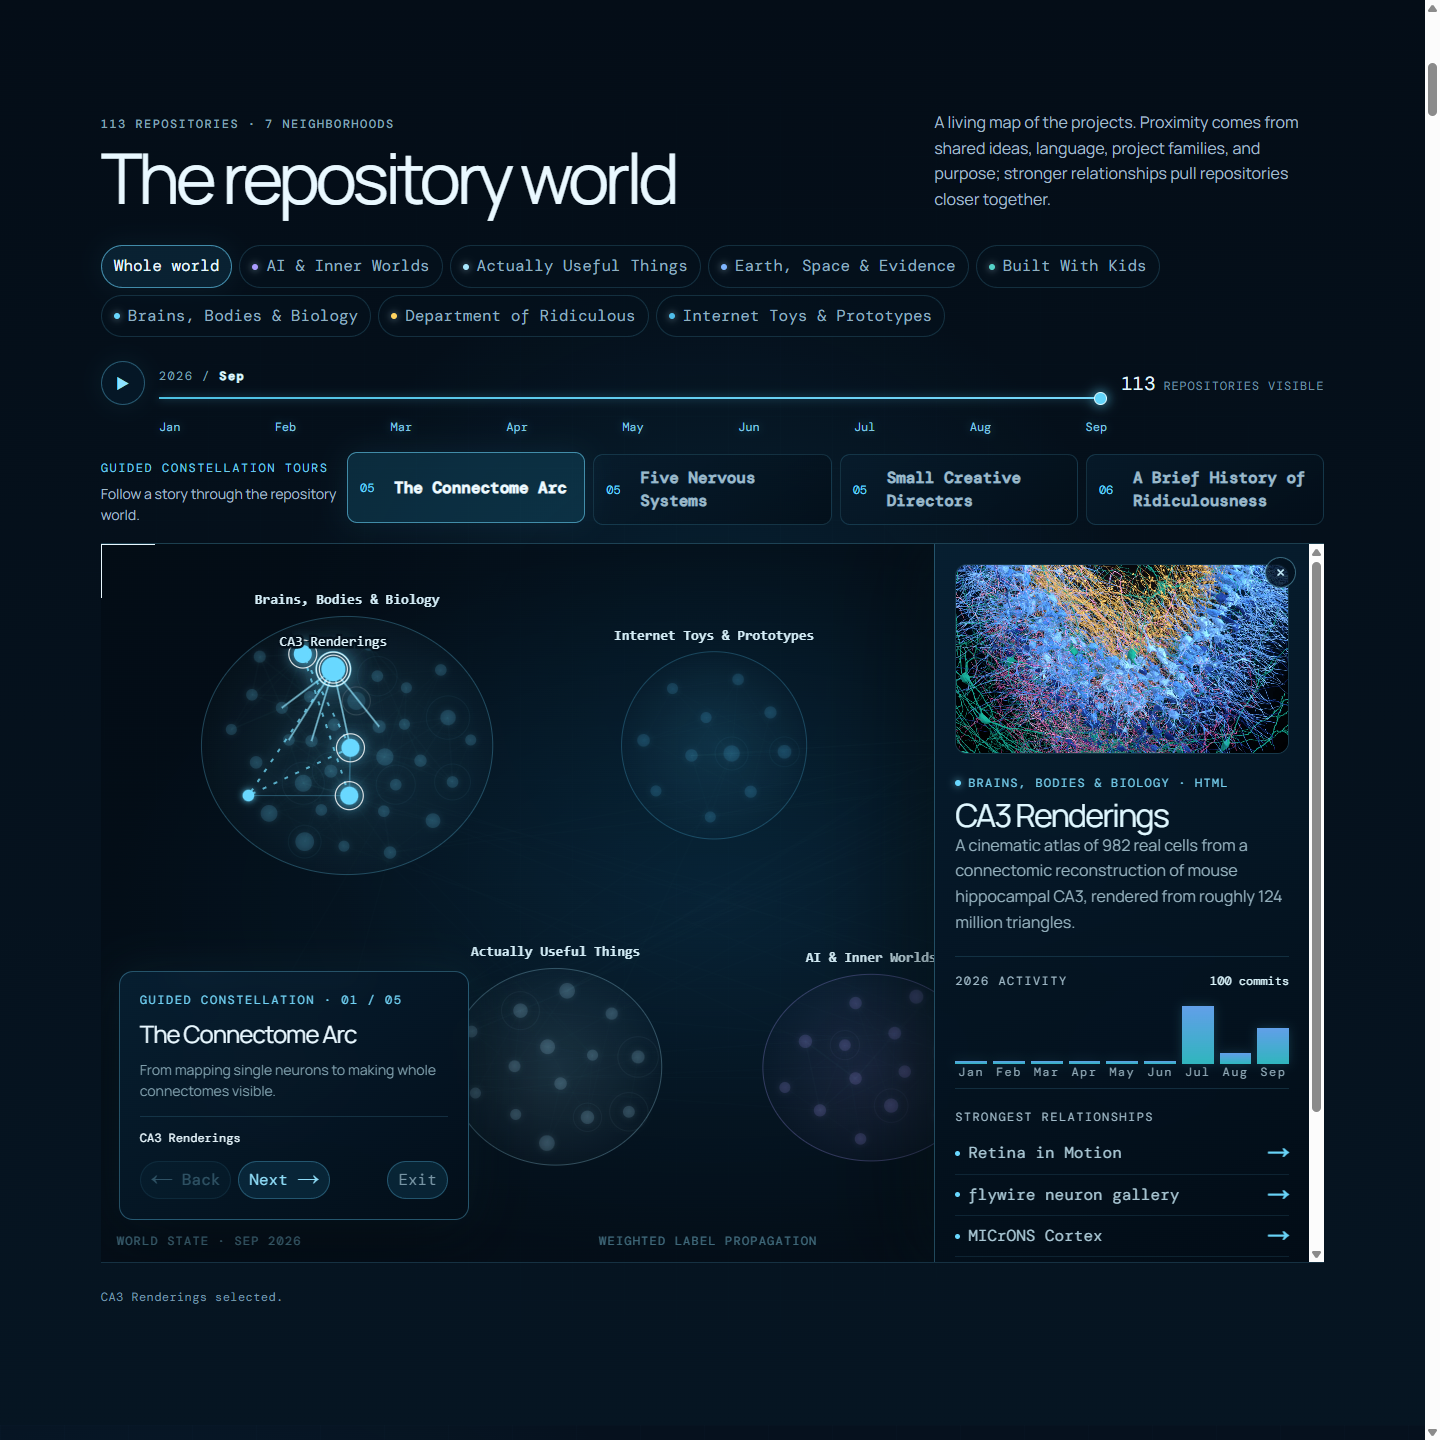
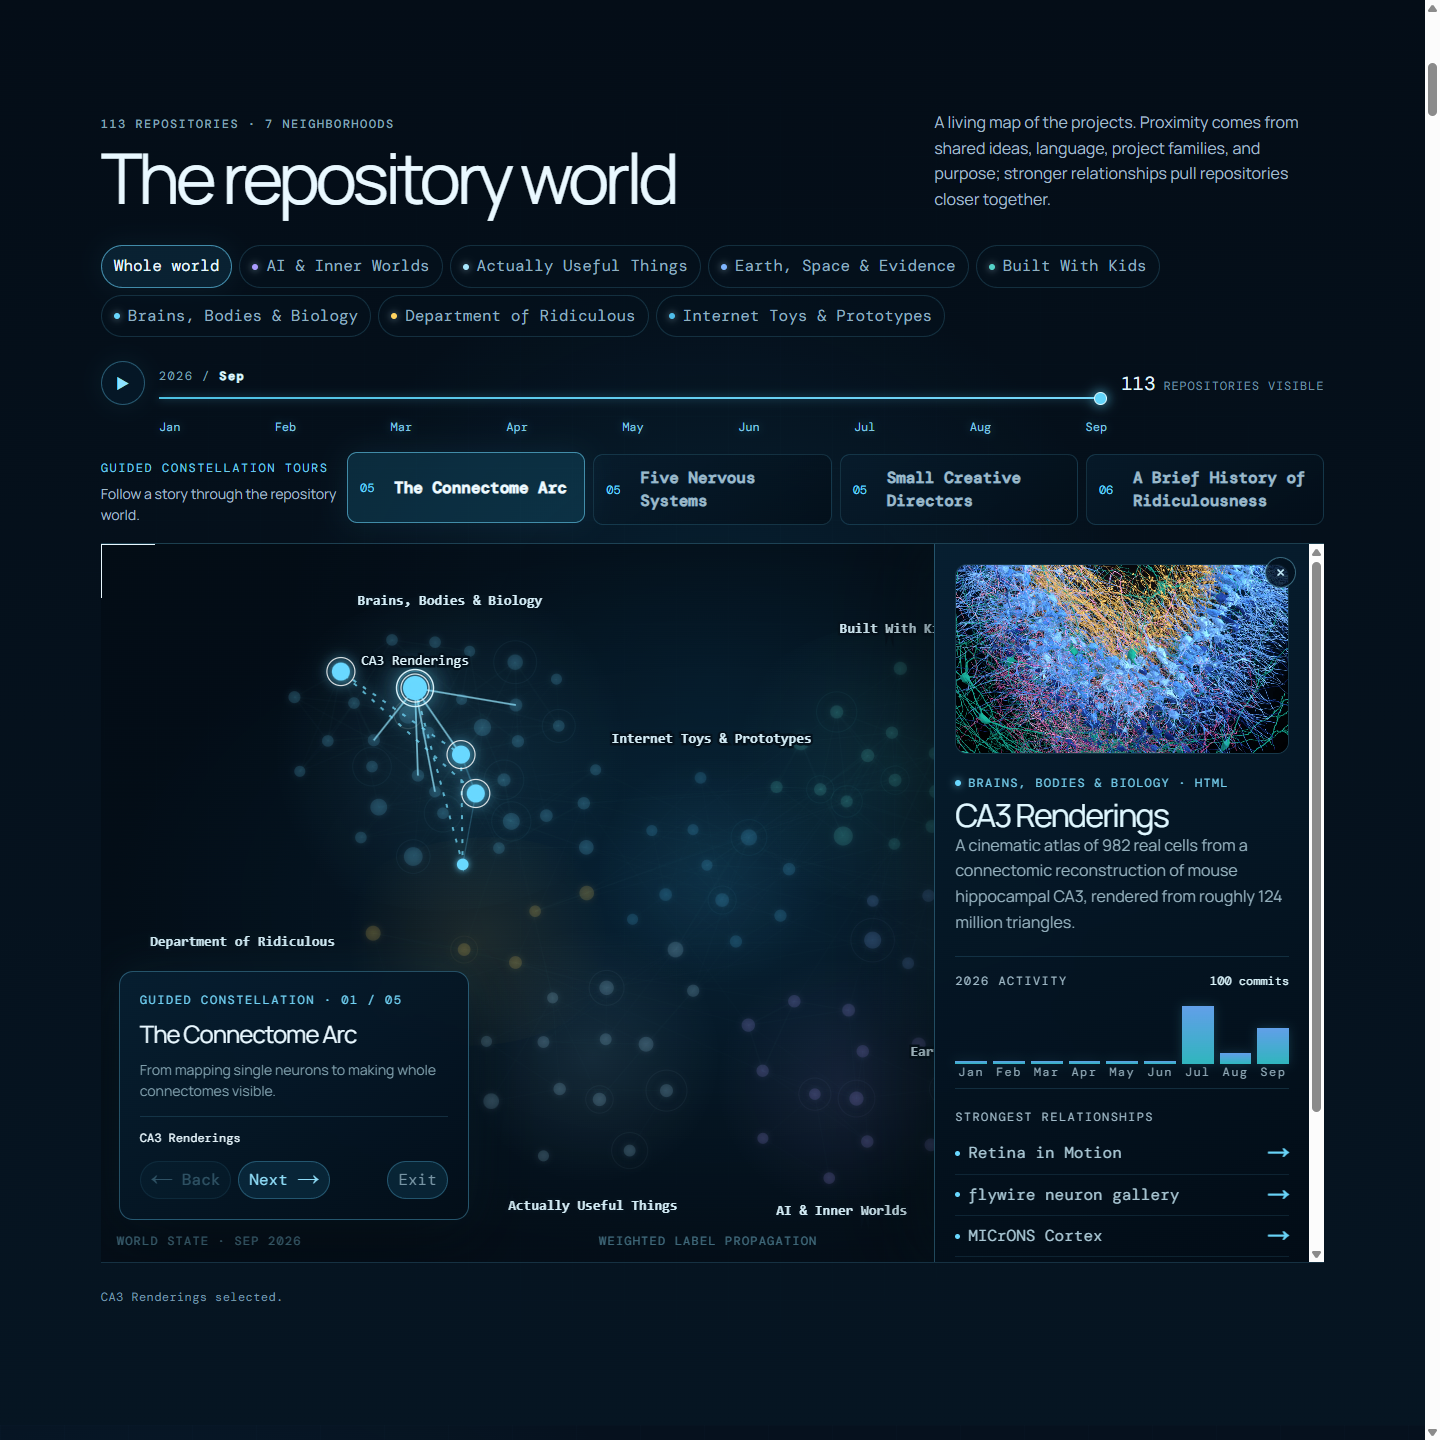
Keep tighter communities woven into one connected ecosystem

diff --git a/app/repository-world.tsx b/app/repository-world.tsx
@@ -19,10 +19,10 @@ const neighborhoodColors:Record<string,string> = {
   developer:"#8ddcff", multimodal:"#729eff", learning:"#b7c9ff",
 };
 const centers:Record<string,[number,number]> = {
-  brains:[.2,.28], kids:[.8,.28], earth:[.87,.73], ai:[.63,.73],
-  tools:[.37,.73], toys:[.5,.28], ridiculous:[.13,.73],
-  models:[.2,.28], agents:[.5,.28], research:[.8,.28], safety:[.87,.73],
-  developer:[.63,.73], multimodal:[.13,.73], learning:[.37,.73],
+  brains:[.25,.28], kids:[.74,.25], earth:[.82,.55], ai:[.63,.76],
+  tools:[.36,.75], toys:[.48,.48], ridiculous:[.12,.59],
+  models:[.22,.26], agents:[.52,.22], research:[.78,.3], safety:[.82,.64],
+  developer:[.53,.76], multimodal:[.22,.68], learning:[.48,.49],
 };
 const monthNames=["Jan","Feb","Mar","Apr","May","Jun","Jul","Aug","Sep","Oct","Nov","Dec"];
 const constellationTours = [
@@ -168,39 +168,30 @@ export default function RepositoryWorld({projects,heading="The repository world"
     const inTour=(node:GraphNode)=>!tourNames.length||tourNames.includes(node.name);
     const cumulative=(node:GraphNode)=>node.months.slice(0,month).reduce((sum,value)=>sum+value,0);
     const nodeRadius=(node:GraphNode)=>node.featured?9:5.5+Math.min(4,node.stars===undefined?Math.sqrt(cumulative(node))*.28:Math.log10(node.stars+1)*1.1);
-    const neighborhoodOrder=Object.keys(centers).filter(id=>categories.some(category=>category.id===id));
-    const largestNeighborhood=[...neighborhoodOrder].sort((a,b)=>nodes.filter(node=>node.category===b).length-nodes.filter(node=>node.category===a).length)[0];
-    const mobileOrder=[largestNeighborhood,...neighborhoodOrder.filter(id=>id!==largestNeighborhood)];
-    const mobileExtents=new Map<string,number>();
-    const mobileAnchor=(category:string)=>{
-      const index=mobileOrder.indexOf(category);
-      const row=index===0?0:Math.floor((index-1)/2)+1;
-      const rows=1+Math.ceil((mobileOrder.length-1)/2);
-      return {x:width*(index===0?.5:index%2===1?.25:.75),y:60+(row+.5)*(height-100)/rows};
-    };
-    const mobileScale=(category:string)=>Math.min(.85,(width/(category===largestNeighborhood?2:4)-30)/(mobileExtents.get(category)||100));
-    const projectPoint=(node:GraphNode)=>{
-      if(width>=700)return {x:node.x/1000*width,y:node.y/650*height};
-      const [cx,cy]=centers[node.category]||[.5,.5],anchor=mobileAnchor(node.category),scale=mobileScale(node.category);
-      return {x:anchor.x+(node.x-cx*1000)*scale,y:anchor.y+(node.y-cy*650)*scale};
-    };
+    const projectPoint=(node:GraphNode)=>({x:node.x/1000*width,y:node.y/650*height});
     const tick=()=>{
+        const localCenters=new Map<string,{x:number;y:number;count:number}>();
+        nodes.forEach(node=>{if(!visible(node))return;const group=localCenters.get(node.category)||{x:0,y:0,count:0};group.x+=node.x;group.y+=node.y;group.count++;localCenters.set(node.category,group);});
         nodes.forEach((node,index)=>{
           if(index===drag) return;
           const [cx,cy]=centers[node.category]||[.5,.5];
-          node.vx+=(cx*1000-node.x)*.004; node.vy+=(cy*650-node.y)*.004;
+          node.vx+=(cx*1000-node.x)*.0008; node.vy+=(cy*650-node.y)*.0008;
+          const group=localCenters.get(node.category);
+          if(group){node.vx+=(group.x/group.count-node.x)*.0012;node.vy+=(group.y/group.count-node.y)*.0012;}
           if(easterEgg){node.vx+=Math.sin(performance.now()*.006+index)*.12;node.vy+=Math.cos(performance.now()*.007+index*1.7)*.12;}
         });
         for(let a=0;a<nodes.length;a++) for(let b=a+1;b<nodes.length;b++) {
           if(!visible(nodes[a])||!visible(nodes[b])) continue;
           const dx=nodes[b].x-nodes[a].x,dy=nodes[b].y-nodes[a].y,distance=Math.max(18,Math.hypot(dx,dy));
-          if(distance<76){const force=(76-distance)*.004;nodes[a].vx-=dx/distance*force;nodes[a].vy-=dy/distance*force;nodes[b].vx+=dx/distance*force;nodes[b].vy+=dy/distance*force;}
+          if(distance<90){const force=(90-distance)*.0025;nodes[a].vx-=dx/distance*force;nodes[a].vy-=dy/distance*force;nodes[b].vx+=dx/distance*force;nodes[b].vy+=dy/distance*force;}
         }
         graph.edges.forEach(edge=>{
           const a=nodes[edge.source],b=nodes[edge.target]; if(!visible(a)||!visible(b)) return;
-          const dx=b.x-a.x,dy=b.y-a.y,distance=Math.max(1,Math.hypot(dx,dy)); const desired=44+Math.max(0,28-edge.weight*4);
-          // Bridges remain visible without dragging separate neighborhoods together.
-          const strength=a.category===b.category?.0006:.000015;
+          const dx=b.x-a.x,dy=b.y-a.y,distance=Math.max(1,Math.hypot(dx,dy));
+          const local=a.category===b.category;
+          const desired=(local?48:68)+Math.max(0,32-edge.weight*5);
+          // Tighten local relationships while retaining the pull across the ecosystem.
+          const strength=local?.00055:.00038;
           const force=(distance-desired)*strength*Math.min(edge.weight,5); a.vx+=dx/distance*force;a.vy+=dy/distance*force;b.vx-=dx/distance*force;b.vy-=dy/distance*force;
         });
         nodes.forEach((node,index)=>{if(index!==drag){node.vx*=.9;node.vy*=.9;node.x=Math.max(35,Math.min(965,node.x+node.vx));node.y=Math.max(35,Math.min(615,node.y+node.vy));}});
@@ -208,31 +199,30 @@ export default function RepositoryWorld({projects,heading="The repository world"
     const draw=()=>{
       context.clearRect(0,0,width,height);
       const labels:{left:number;right:number;top:number;bottom:number}[]=[];
+      const neighborhoodLabels:{lines:string[];cx:number;cy:number;rx:number;ry:number;labelWidth:number}[]=[];
       categories.forEach(category=>{
         if(active!=="all"&&active!==category.id) return;
         const group=nodes.filter(node=>node.category===category.id&&visible(node)); if(!group.length)return;
         const points=group.map(projectPoint); const cx=points.reduce((sum,p)=>sum+p.x,0)/points.length,cy=points.reduce((sum,p)=>sum+p.y,0)/points.length;
         const rx=Math.max(42,...points.map(p=>Math.abs(p.x-cx)+22)),ry=Math.max(38,...points.map(p=>Math.abs(p.y-cy)+22));
         const color=neighborhoodColors[category.id]||"#69d8ff";
-        const gradient=context.createRadialGradient(cx,cy,0,cx,cy,Math.max(rx,ry)); gradient.addColorStop(0,`${color}20`);gradient.addColorStop(1,`${color}05`);
-        context.fillStyle=gradient;context.strokeStyle=`${color}45`;context.lineWidth=1;context.beginPath();context.ellipse(cx,cy,rx,ry,0,0,Math.PI*2);context.fill();context.stroke();
+        const gradient=context.createRadialGradient(cx,cy,0,cx,cy,Math.max(rx,ry)); gradient.addColorStop(0,`${color}18`);gradient.addColorStop(1,`${color}00`);
+        context.fillStyle=gradient;context.beginPath();context.ellipse(cx,cy,rx+24,ry+24,-.08,0,Math.PI*2);context.fill();
+        if(width<700&&active==="all")return;
         context.fillStyle="#d4edf7";context.font="600 14px ui-monospace, monospace";context.letterSpacing="0px";context.textAlign="center";
-        const maxLabelWidth=width<700?width/(category.id===largestNeighborhood?1:2)-22:Math.min(260,width*.23);
+        const maxLabelWidth=Math.min(240,width*.3);
         const lines:string[]=[];
         category.title.split(" ").forEach(word=>{
           const last=lines.length-1;
           if(last>=0&&context.measureText(`${lines[last]} ${word}`).width<=maxLabelWidth)lines[last]+=` ${word}`;
           else lines.push(word);
         });
-        const labelX=Math.max(maxLabelWidth/2+8,Math.min(width-maxLabelWidth/2-8,cx));
-        const labelY=Math.max(22,cy-ry-12-(lines.length-1)*19);
-        lines.forEach((line,index)=>context.fillText(line,labelX,labelY+index*19));
-        labels.push({left:labelX-maxLabelWidth/2,right:labelX+maxLabelWidth/2,top:labelY-16,bottom:labelY+(lines.length-1)*19+4});
+        neighborhoodLabels.push({lines,cx,cy,rx,ry,labelWidth:Math.max(...lines.map(line=>context.measureText(line).width))});
       });
       graph.edges.forEach(edge=>{
         const a=nodes[edge.source],b=nodes[edge.target]; if(!visible(a)||!visible(b))return; const p1=projectPoint(a),p2=projectPoint(b);
         const incident=selectedIndex===edge.source||selectedIndex===edge.target;
-        context.strokeStyle=incident?"rgba(151,231,255,.72)":tourNames.length&&(!inTour(a)||!inTour(b))?"rgba(100,150,180,.025)":a.category!==b.category?"rgba(111,157,188,.045)":a.community===b.community?"rgba(104,211,255,.3)":"rgba(111,157,188,.18)";context.lineWidth=incident?1.8:Math.min(1.6,.35+edge.weight*.15);context.beginPath();context.moveTo(p1.x,p1.y);context.lineTo(p2.x,p2.y);context.stroke();
+        context.strokeStyle=incident?"rgba(151,231,255,.72)":tourNames.length&&(!inTour(a)||!inTour(b))?"rgba(100,150,180,.025)":a.category!==b.category?"rgba(111,185,216,.16)":a.community===b.community?"rgba(104,211,255,.28)":"rgba(111,185,216,.2)";context.lineWidth=incident?1.8:Math.min(1.6,.35+edge.weight*.15);context.beginPath();context.moveTo(p1.x,p1.y);context.lineTo(p2.x,p2.y);context.stroke();
       });
       if(tourNames.length){
         const route=tourNames.map(name=>nodes.find(node=>node.name===name)).filter(Boolean) as GraphNode[];
@@ -247,6 +237,21 @@ export default function RepositoryWorld({projects,heading="The repository world"
         if(node.featured){context.strokeStyle="rgba(255,255,255,.82)";context.lineWidth=1.2;context.beginPath();context.arc(point.x,point.y,radius+5,0,Math.PI*2);context.stroke();}
         if(easterEgg){const eye=radius*.48+2;context.shadowBlur=0;context.fillStyle="#f4fbff";[-1,1].forEach(side=>{context.beginPath();context.arc(point.x+side*eye*.72,point.y-eye*.35,eye,0,Math.PI*2);context.fill();context.fillStyle="#071421";context.beginPath();context.arc(point.x+side*eye*.72+Math.sin(performance.now()*.003+index)*eye*.25,point.y-eye*.25,eye*.38,0,Math.PI*2);context.fill();context.fillStyle="#f4fbff";});}
         context.restore();
+      });
+      neighborhoodLabels.forEach(({lines,cx,cy,rx,ry,labelWidth})=>{
+        const labelHeight=lines.length*19;
+        const positions=[{x:cx,y:cy-ry-labelHeight-8},{x:cx,y:cy+ry+12},{x:cx-rx-labelWidth/2-12,y:cy-labelHeight/2},{x:cx+rx+labelWidth/2+12,y:cy-labelHeight/2}];
+        const options=positions.map((position,index)=>{
+          const x=Math.max(labelWidth/2+10,Math.min(width-labelWidth/2-10,position.x)),y=Math.max(10,Math.min(height-42-labelHeight,position.y));
+          const box={left:x-labelWidth/2-5,right:x+labelWidth/2+5,top:y-3,bottom:y+labelHeight+3};
+          const overlappingLabels=labels.filter(label=>box.left<label.right&&box.right>label.left&&box.top<label.bottom&&box.bottom>label.top).length;
+          const overlappingNodes=nodes.filter(node=>{if(!visible(node))return false;const p=projectPoint(node),r=nodeRadius(node)+6;return p.x+r>box.left&&p.x-r<box.right&&p.y+r>box.top&&p.y-r<box.bottom;}).length;
+          return {x,y,box,score:overlappingLabels*100+overlappingNodes*10+index};
+        });
+        const best=options.sort((a,b)=>a.score-b.score)[0];
+        context.save();context.font="600 14px ui-monospace, monospace";context.textAlign="center";context.lineWidth=5;context.strokeStyle="#05121d";context.fillStyle="#d4edf7";
+        lines.forEach((line,index)=>{context.strokeText(line,best.x,best.y+14+index*19);context.fillText(line,best.x,best.y+14+index*19);});
+        context.restore();labels.push(best.box);
       });
       // Keep compact groups legible: show featured names only where they fit.
       const namedNodes=nodes.filter((node,index)=>visible(node)&&(index===hover||index===drag||index===selectedIndex||(node.featured&&width>=700)));
@@ -271,11 +276,10 @@ export default function RepositoryWorld({projects,heading="The repository world"
     };
     // Settle before the first paint, including when animation is disabled.
     for(let iteration=0;iteration<220;iteration++)tick();
-    nodes.forEach(node=>{const [cx]=centers[node.category]||[.5,.5];mobileExtents.set(node.category,Math.max(mobileExtents.get(node.category)||0,Math.abs(node.x-cx*1000)));});
     const animate=()=>{if(!reduceMotion)tick();draw();frame=inView&&!reduceMotion?requestAnimationFrame(animate):0;};
     const closest=(x:number,y:number)=>{let result=-1,best=26;nodes.forEach((node,index)=>{if(!visible(node))return;const p=projectPoint(node),distance=Math.hypot(p.x-x,p.y-y);if(distance<best&&distance<nodeRadius(node)+13){best=distance;result=index;}});return result;};
     const position=(event:PointerEvent)=>{const rect=canvas.getBoundingClientRect();pointer.x=event.clientX-rect.left;pointer.y=event.clientY-rect.top;};
-    const move=(event:PointerEvent)=>{position(event);if(drag>=0){moved=true;const node=nodes[drag];if(width<700){const [cx,cy]=centers[node.category]||[.5,.5],anchor=mobileAnchor(node.category),scale=mobileScale(node.category);node.x=cx*1000+(pointer.x-anchor.x)/scale;node.y=cy*650+(pointer.y-anchor.y)/scale;}else{node.x=pointer.x/width*1000;node.y=pointer.y/height*650;}node.vx=0;node.vy=0;}hover=closest(pointer.x,pointer.y);canvas.style.cursor=hover>=0?drag>=0?"grabbing":"grab":"crosshair";if(reduceMotion)draw();};
+    const move=(event:PointerEvent)=>{position(event);if(drag>=0){moved=true;const node=nodes[drag];node.x=pointer.x/width*1000;node.y=pointer.y/height*650;node.vx=0;node.vy=0;}hover=closest(pointer.x,pointer.y);canvas.style.cursor=hover>=0?drag>=0?"grabbing":"grab":"crosshair";if(reduceMotion)draw();};
     const down=(event:PointerEvent)=>{position(event);drag=closest(pointer.x,pointer.y);moved=false;if(drag>=0){canvas.setPointerCapture(event.pointerId);canvas.style.cursor="grabbing";}};
     const up=(event:PointerEvent)=>{if(drag>=0&&!moved)setSelected(nodes[drag]);drag=-1;if(canvas.hasPointerCapture(event.pointerId))canvas.releasePointerCapture(event.pointerId);};
     const cancel=()=>{drag=-1;hover=-1;};
@@ -304,7 +308,7 @@ export default function RepositoryWorld({projects,heading="The repository world"
         <ol>
           <li><b>Connect.</b><span>Names and descriptions become semantic signals. Shared ideas, technology, and project-family names create weighted links.</span></li>
           <li><b>Detect.</b><span>Repositories repeatedly adopt the strongest neighboring community through weighted label propagation. The seven editorial categories provide only a light prior.</span></li>
-          <li><b>Settle.</b><span>Each colored neighborhood gathers around its own center. Stronger links bring related projects closer within a group; faint bridges connect ideas across groups.</span></li>
+          <li><b>Settle.</b><span>Related projects gather more tightly, while links across neighborhoods keep the whole ecosystem connected. Soft color clouds show overlapping areas of shared purpose.</span></li>
         </ol>
         <div><span><i className="methodNode"/>Node size = {projects.some(project=>project.stars!==undefined)?"GitHub stars":`${year} commits`}</span><span><i className="methodRing"/>Ring = featured project</span><span><i className="methodLink"/>Line = inferred relationship</span></div>
       </aside>

diff --git a/app/globals.css b/app/globals.css
@@ -309,9 +309,6 @@ body { font-size:1rem; line-height:1.5; }
 .worldMethod li { grid-template-columns:24px 1fr; }
 .worldMethod li span { grid-column:2; }
 .worldStage canvas { touch-action:pan-y; }
-@media (max-width:780px) {
-  .worldStage { height:1120px; }
-}
 .drawerActivity>div:first-child { flex-wrap:wrap; gap:8px; }
 .commitTooltip { width:360px; max-width:90vw; }
 .commitBarItem .commitTooltip { display:none; }

diff --git a/README.md b/README.md
@@ -10,7 +10,7 @@ The September 20, 2026 snapshot contains **113 projects**: 102 public repositori
 
 ## A world of connected projects
 
-Seven compact thematic neighborhoods connect projects through shared ideas, technologies, and purpose. Clear group outlines and faint bridges make the communities easier to distinguish; on phones, the largest group gets its own row. Drag nodes, select a repository for its field guide, scrub through the year, or follow a guided constellation tour.
+Seven overlapping thematic neighborhoods form one connected ecosystem. Related projects gather tightly while visible links across neighborhoods keep shared ideas, technologies, and purposes woven together. Drag nodes, select a repository for its field guide, scrub through the year, or follow a guided constellation tour.
 
 [![The September repository world with neighborhood filters, nine-month timeline, and guided tours](public/readme/repository-world.png)](https://amyleesterling.github.io/projects-overview/#world)
 
